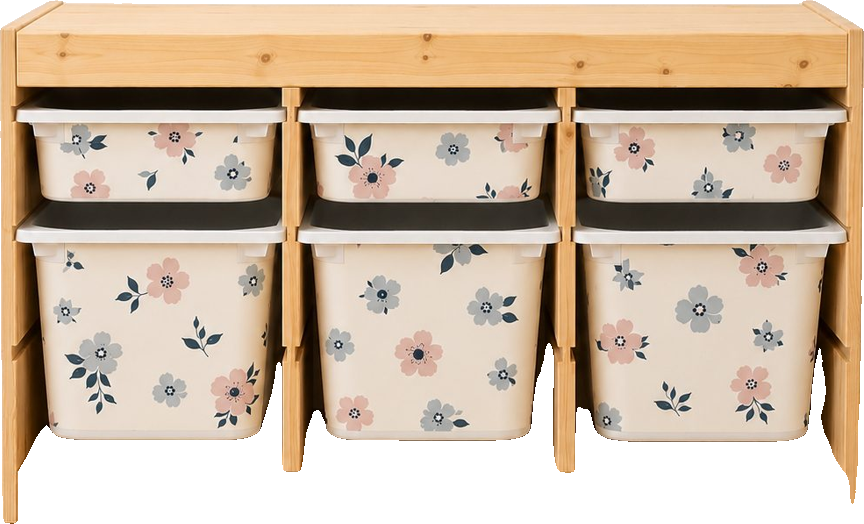
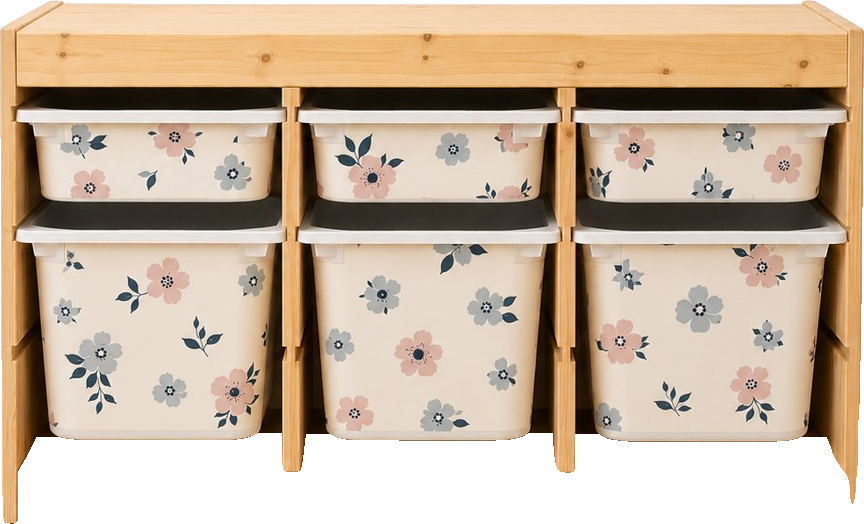
Category: rear DUKTIG panel with real print files, shelf full cut swap, remove invented kits, instant swap

diff --git a/site.js b/site.js
@@ -12,17 +12,11 @@ const CATS={
   designs:[['sage','מרווה'],['pink','ורוד'],['yellow','צהוב'],['blue','כחול'],['gingham','משבצות'],['floral','פרחוני'],['floral2','פרחוני עדין'],['red','פסים'],['beige','בז\''],['mix','צבעוני'],['mix2','פסטל']].map(([k,n])=>({id:'sh-'+k,img:'img/trofast-'+k+'.jpg',name:n,short:n,price:119}))},
  table:{name:'שולחן',ikea:'FLISAT',thumb:'assets/ikea/flisat-table.png',full:'שולחן ילדים',lead:'שולחן הילדים הופך למגרש משחקים.',
   designs:[['road','כבישים'],['check','משבצות'],['leo','נמר']].map(([k,n])=>({id:'tb-'+k,img:'img/table-'+k+'.jpg',name:n,short:n,price:99}))},
- kitchen:{name:'מטבח',ikea:'DUKTIG',thumb:'assets/ikea/duktig.png',full:'מטבח למשחק',lead:'המטבח הופך לחנות קטנה ואמיתית.',
+ kitchen:{name:'מטבח',ikea:'DUKTIG',thumb:'assets/ikea/duktig.png',base:'assets/ikea/duktig-back.png',full:'מטבח למשחק',lead:'המטבח הופך לחנות קטנה ואמיתית.',
   designs:[['pizzeria','פיצרייה','pizzeria.jpg'],['ice','גלידרייה','icecream.jpg'],['market','מכולת','hero-market.jpg']].map(([k,n,f])=>({id:'kt-'+k,img:'img/'+f,name:n,short:n,price:159}))}
 };
-const PACKS={
- 'dh-home':{id:'pk-home',name:'ערכת "בית חם"',price:59,items:['🪴','💡','🐈','🕰','🧸','🖼']},
- 'dh-market':{id:'pk-market',name:'ערכת "מכולת"',price:69,items:['🛒','🍎','🧺','🥖','🥕','🧃']},
- 'dh-forest':{id:'pk-forest',name:'ערכת "חברי היער"',price:59,items:['🌲','🍄','🦉','🦊','🌼','🦔']},
- 'kt-pizzeria':{id:'pk-shop',name:'ערכת קיר "חנות"',price:49,img:'img/wall-kit.jpg'},
- 'kt-market':{id:'pk-shop',name:'ערכת קיר "חנות"',price:49,img:'img/wall-kit.jpg'}
-};
-const NOCUT={'tb-leo':1};Object.values(CATS).forEach(C=>C.designs.forEach(d=>{if(!d.w)d.ov='assets/ovl/'+d.id+'.png'}));Object.values(CATS).forEach(C=>C.designs.forEach(d=>{if(d.img&&!NOCUT[d.id])d.cut='assets/cut/'+d.img.split('/').pop().replace('.jpg','.png')}));
+const PACKS={}; /* real accessory kits: none finished in the owner's folder yet (בית בובות מדבקות אביזרים חלונות ודלת לבית is empty) */
+const NOCUT={'tb-leo':1};Object.values(CATS).forEach(C=>C.designs.forEach(d=>{if(!d.w&&d.cat!='shelf'&&!d.id.startsWith('sh-'))d.ov='assets/ovl/'+d.id+'.png'}));Object.values(CATS).forEach(C=>C.designs.forEach(d=>{if(d.img&&!NOCUT[d.id])d.cut='assets/cut/'+d.img.split('/').pop().replace('.jpg','.png');if(d.id.startsWith('kt-'))d.cut='assets/cut/'+d.id+'-back.png'}));
 const ALL={};Object.entries(CATS).forEach(([c,C])=>C.designs.forEach(d=>{d.cat=c;ALL[d.id]=d}));
 Object.values(PACKS).forEach(p=>{if(!ALL[p.id])ALL[p.id]={...p,pack:true,cat:p.img?'kitchen':'dollhouse'}});
 const houseSVG=w=>`<div class="house" style="position:absolute;inset:0"><img src="assets/plain.webp" style="position:absolute;inset:0;width:100%;height:100%;object-fit:contain"><div style="position:absolute;inset:0">${W[w].svg().replace('xMidYMid slice','xMidYMid meet')}</div></div>`;
@@ -89,7 +83,7 @@ window.TryOn=function(root,opt={}){
  stageBox.innerHTML=`<div class="stage"><span class="ph">תמונת הדמיה</span></div>${opt.cap?'<div class="stage-cap"><span class="cap-l"></span><span>מחירים לדוגמה</span></div>':''}`;
  const stage=$('.stage',stageBox);let cat=null,des=null;
  function layer(d){const L=document.createElement('div');L.className='lay'+(d.w?' house':'');
-  if(opt.cut&&d.ov){L.className+=' ovl';L.innerHTML=`<div class="ob"><img src="${CATS[d.cat].thumb}" alt=""><img src="${d.ov}" alt="${d.name}"></div>`;return L}
+  if(opt.cut&&d.ov){L.className+=' ovl';L.innerHTML=`<div class="ob"><img src="${CATS[d.cat].base||CATS[d.cat].thumb}" alt=""><img src="${d.ov}" alt="${d.name}"></div>`;return L}
   if(opt.cut&&d.cut)L.className+=' cut';
   L.innerHTML=d.w?`<div class="hs"><img src="assets/plain.webp" alt=""></div>`:`<img src="${opt.cut&&d.cut?d.cut:d.img}" alt="${d.name}">`;
   if(d.w){const s=skinEl(d.w);$('.hs',L).appendChild(s)}return L}

diff --git a/category.html b/category.html
@@ -21,11 +21,11 @@ document.querySelector('.side').style.setProperty('--t',TINT[c]);
 const T=TryOn(document.getElementById('sctl'),{stageEl:document.getElementById('sst'),cat:c,title:true,compact:true,cut:true,fade:160,packLbl:'השלימו עם ערכת האביזרים',onDesign:d=>document.querySelectorAll('.pcard').forEach(e=>e.classList.toggle('on',e.dataset.id==d.id))});
 const card=(d,i)=>{const C=P.CATS[d.cat],im=d.pack?P.packThumb(d):d.w?P.houseSVG(d.w):d.cut?`<img class="c" src="${d.cut}" alt="${d.name}" loading="lazy">`:`<img class="ph" src="${d.img}" alt="${d.name}" loading="lazy">`;
  return `<article class="pcard rv${d.pack?' pk':''}${T.des&&T.des.id==d.id?' on':''}" data-id="${d.id}" style="--t:${TC[i%4]}"><div class="im" data-try="${d.id}">${d.pack?'<span class="tag">ערכת אביזרים · נמכרת בנפרד</span>':''}${im}</div><div class="bd"><div><h3>${d.pack?d.name:C.name+' · '+d.name}</h3><span class="meta">${d.pack?'ערכת אביזרים':C.ikea}</span></div><b>₪${d.price}</b></div><button class="add" data-add="${d.id}">+ הוסיפו לסל</button></article>`};
-C.designs.forEach(d=>{if(d.ov)new Image().src=d.ov});new Image().src=C.thumb;
+C.designs.forEach(d=>{if(d.ov)new Image().src=d.ov});new Image().src=C.base||C.thumb;C.designs.forEach(d=>{if(d.cut)new Image().src=d.cut});
 let f='all';
 function draw(){const list=f=='all'?items:f=='packs'?packs:items.filter(d=>d.id==f);
  document.getElementById('grid').innerHTML=list.map(card).join('');document.getElementById('cnt').textContent=list.length+' מוצרים';
- document.querySelectorAll('#grid .pcard:not(.pk)').forEach(el=>{el.addEventListener('mouseenter',()=>{if(matchMedia('(hover:hover) and (min-width:821px)').matches)T.setDesign(el.dataset.id)})});
+ document.querySelectorAll('#grid .pcard:not(.pk)').forEach(el=>{el.addEventListener('mouseenter',()=>{if(matchMedia('(hover:hover) and (min-width:821px)').matches)T.setDesign(el.dataset.id,true)})});
  document.querySelectorAll('#grid [data-try]').forEach(el=>el.onclick=()=>{const d=P.ALL[el.dataset.try];if(!d.pack){T.setDesign(d.id);if(innerWidth<=820)sheet(true)}});
  P.reveal()}
 const side=document.querySelector('.side'),scr=document.querySelector('.sheet-scrim');
